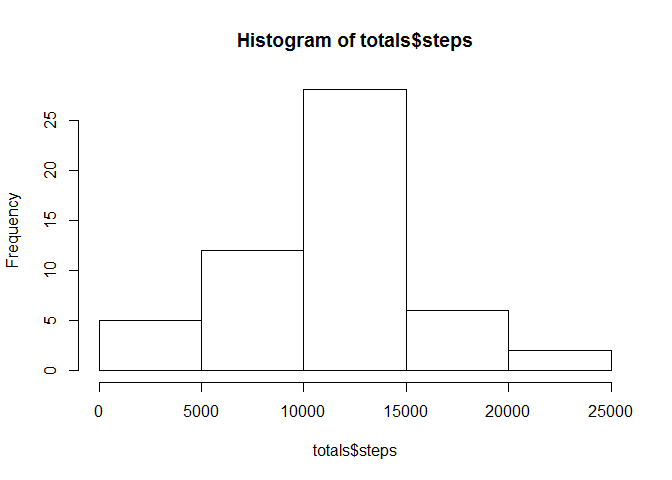
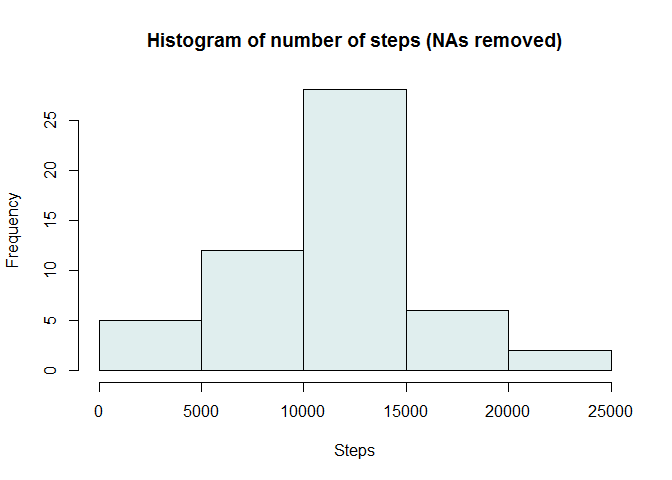
Final release

Changed region(s): [[0.125, 0.1875, 0.9062, 0.7812], [0.2188, 0.0625, 0.8438, 0.125], [0.4688, 0.9062, 0.5938, 0.9688]]

diff --git a/PA1_template.html b/PA1_template.html
@@ -54,71 +54,72 @@ if (window.hljs && document.readyState && document.readyState === "complete") {
 <div id="header">
 <h1 class="title">Reproducible Research: Peer Assessment 1</h1>
 <h4 class="author"><em>Maarten Caminada</em></h4>
-<h4 class="date"><em>Tuesday, November 11, 2014</em></h4>
+<h4 class="date"><em>Thursday, November 13, 2014</em></h4>
 </div>
 
 
 <div id="changing-the-work-directory-and-loading-the-packages-needed" class="section level2">
 <h2>Changing the work directory and loading the packages needed</h2>
-<pre class="r"><code>wd &lt;- &quot;c:/maca/Rdata/RepData_PeerAssessment1&quot; #the directory where I unzipped the datafiles
+<pre class="r"><code>wd &lt;- &quot;c:/maca/Rdata/RepData_PeerAssessment1&quot; # the directory where I unzipped the datafiles
 setwd(wd) #is now my working directory
 
-Sys.setlocale(&quot;LC_TIME&quot;, &quot;C&quot;) # change timesettings to English</code></pre>
+Sys.setlocale(&quot;LC_TIME&quot;, &quot;C&quot;) # change timesettings to English, needed for the final plot</code></pre>
 <pre><code>## [1] &quot;C&quot;</code></pre>
-<pre class="r"><code>library(knitr) #load knitr, assuming the package is installed
+<pre class="r"><code>library(knitr) # load knitr, assuming the package is installed
 library(markdown) # dito for markdown, and the other packages
 library(plyr)
-library(lubridate)</code></pre>
-<pre><code>## 
-## Attaching package: 'lubridate'
-## 
-## The following object is masked from 'package:plyr':
-## 
-##     here</code></pre>
-<pre class="r"><code>library(ggplot2)
-options(scipen = 3) #no scientific notation</code></pre>
+library(ggplot2)
+options(scipen = 3) # I don't want scientific notation</code></pre>
 </div>
 <div id="loading-and-preprocessing-the-data" class="section level2">
 <h2>Loading and preprocessing the data</h2>
 <pre class="r"><code>activity &lt;- read.csv(&quot;activity.csv&quot;) 
-act_cc &lt;- activity[complete.cases(activity),] #only use the rows without missing values</code></pre>
+act_cc &lt;- activity[complete.cases(activity),] # only use the rows without missing values</code></pre>
 </div>
 <div id="what-is-mean-total-number-of-steps-taken-per-day" class="section level2">
 <h2>What is mean total number of steps taken per day?</h2>
-<pre class="r"><code>totals &lt;- ddply(act_cc, .(date), summarize, steps=sum(steps))
-hist(totals$steps)</code></pre>
[1 lines of base64/hex data omitted]
-<pre class="r"><code>meansteps &lt;- mean(totals$steps)
-mediansteps &lt;- median(totals$steps)</code></pre>
-<p>The mean number of steps is 10766.1886792. The median number of steps is 10765.</p>
+<pre class="r"><code>totals &lt;- ddply(act_cc, .(date), summarize, steps=sum(steps)) # sum the number of steps by date
+hist(totals$steps, main=&quot;Histogram of number of steps (NAs removed)&quot;, xlab=&quot;Steps&quot;, col=&quot;azure2&quot;)</code></pre>
[1 lines of base64/hex data omitted]
+<pre class="r"><code>meansteps &lt;- round(mean(totals$steps),2) # the average number of steps taken daily
+mediansteps &lt;- round(median(totals$steps),2) # and the median</code></pre>
+<p>The mean number of steps is 10766.19. The median number of steps is 10765.</p>
 </div>
 <div id="what-is-the-average-daily-activity-pattern" class="section level2">
 <h2>What is the average daily activity pattern?</h2>
-<pre class="r"><code>interval &lt;- ddply(act_cc, ~interval, summarise, mean = mean(steps)) #get the averages per interval
-plot(ddply(act_cc, ~interval, summarise, mean = mean(steps)), type = &quot;l&quot;) #time series plot of 5-minute interval</code></pre>
+<pre class="r"><code>interval &lt;- ddply(act_cc, ~interval, summarise, mean = mean(steps)) # get the averages per interval
+plot(ddply(act_cc, ~interval, summarise, mean = mean(steps)), type = &quot;l&quot;) # time series plot of 5-minute interval</code></pre>
[1 lines of base64/hex data omitted]
-<pre class="r"><code>maxsteps &lt;- interval$interval[interval$mean==max(interval$mean)] #which interval contains the max number of steps</code></pre>
-<p>The interval with the max number of steps is 835.</p>
+<pre class="r"><code>maxsteps &lt;- interval$interval[interval$mean==max(interval$mean)] # which interval contains the max number of steps
+maxstepsend &lt;- maxsteps + 5 # and what's the end of this interval</code></pre>
+<p>The interval with the max number of steps is 835 - 840.</p>
 </div>
 <div id="imputing-missing-values" class="section level2">
 <h2>Imputing missing values</h2>
 <pre class="r"><code>## I want to use the average for that 5-minute interval to replace NAs 
-NAs &lt;- nrow(activity) - nrow(act_cc) #the number of rows with NAs
+NAs &lt;- nrow(activity) - nrow(act_cc) # the number of rows with NAs
 act_all &lt;- merge(activity, interval, by =&quot;interval&quot;)
 act_all$steps[is.na(act_all$steps)] &lt;- act_all$mean[is.na(act_all$steps)]
 act_all$mean &lt;- NULL
-meanstepsall &lt;- mean(act_all$steps)
-medianstepsall &lt;- median(act_all$steps)</code></pre>
-<p>The number of rows that contain NAs is 2304. The mean number of steps for the dataset where the missing data is filled in is 37.3825996. The median number for this dataset is 0.</p>
+totalsall &lt;- ddply(act_all, .(date), summarize, steps=sum(steps))
+hist(totalsall$steps, main=&quot;Histogram of number of steps (NA's imputed)&quot;, xlab=&quot;Steps&quot;, col=&quot;gold2&quot;)</code></pre>
[1 lines of base64/hex data omitted]
+<pre class="r"><code>meanstepsall &lt;- round(mean(totalsall$steps),2)
+medianstepsall &lt;- round(median(totalsall$steps),2)
+meandiff  &lt;- meansteps - meanstepsall
+mediandiff &lt;- mediansteps - medianstepsall</code></pre>
+<p>The number of rows that contain NAs is 2304.</p>
+<p>The mean number of steps for the dataset where the missing data is filled in is 10766.19. The median number for this dataset is exactly similar to this number (10766.19).</p>
+<p>The difference between the mean of the first and second dataset is 0. The difference between the median of the first and second dataset is -1.19.</p>
 </div>
 <div id="are-there-differences-in-activity-patterns-between-weekdays-and-weekends" class="section level2">
 <h2>Are there differences in activity patterns between weekdays and weekends?</h2>
-<pre class="r"><code>act_all$date &lt;- as.Date(as.character(act_all$date), format='%Y-%m-%d')
+<pre class="r"><code>act_all$date &lt;- as.Date(as.character(act_all$date), format='%Y-%m-%d') # we need dates here
 act_all$weekday &lt;- weekdays(act_all$date)
 act_all$weekday[act_all$weekday == &quot;Saturday&quot; | act_all$weekday ==&quot;Sunday&quot;] &lt;- &quot;Weekend&quot;
 act_all$weekday[act_all$weekday != &quot;Weekend&quot;] &lt;- &quot;Weekday&quot;
 
-act_all_mean &lt;- ddply(act_all, c(&quot;interval&quot;, &quot;weekday&quot;), summarise, mean = mean(steps))
+act_all_mean &lt;- ddply(act_all, c(&quot;interval&quot;, &quot;weekday&quot;), summarise, mean = mean(steps)) # mean per interval over weekday/weekend
 
 plotweekdays &lt;- ggplot(act_all_mean , aes(x=interval, y=mean))+
         geom_line(colour=&quot;cornflowerblue&quot;, size = 0.75)+
@@ -129,9 +130,6 @@ plotweekdays &lt;- ggplot(act_all_mean , aes(x=interval, y=mean))+
         labs(x= &quot;Interval&quot;, y = &quot;Number of steps&quot;)       
 print(plotweekdays)</code></pre>
[1 lines of base64/hex data omitted]
-<pre class="r"><code>meandiff  &lt;- meansteps - meanstepsall
-mediandiff &lt;- mediansteps - medianstepsall</code></pre>
-<p>The difference between the mean of the first and second dataset is 10728.8060797. The difference between the median of the first and second dataset is 10765.</p>
 </div>
 
 

diff --git a/PA1_template.md b/PA1_template.md
@@ -1,15 +1,15 @@
 # Reproducible Research: Peer Assessment 1
 Maarten Caminada  
-Tuesday, November 11, 2014  
+Thursday, November 13, 2014  
 
 ## Changing the work directory and loading the packages needed
 
 
 ```r
-wd <- "c:/maca/Rdata/RepData_PeerAssessment1" #the directory where I unzipped the datafiles
+wd <- "c:/maca/Rdata/RepData_PeerAssessment1" # the directory where I unzipped the datafiles
 setwd(wd) #is now my working directory
 
-Sys.setlocale("LC_TIME", "C") # change timesettings to English
+Sys.setlocale("LC_TIME", "C") # change timesettings to English, needed for the final plot
 ```
 
 ```
@@ -17,24 +17,11 @@ Sys.setlocale("LC_TIME", "C") # change timesettings to English
 ```
 
 ```r
-library(knitr) #load knitr, assuming the package is installed
+library(knitr) # load knitr, assuming the package is installed
 library(markdown) # dito for markdown, and the other packages
 library(plyr)
-library(lubridate)
-```
-
-```
-## 
-## Attaching package: 'lubridate'
-## 
-## The following object is masked from 'package:plyr':
-## 
-##     here
-```
-
-```r
 library(ggplot2)
-options(scipen = 3) #no scientific notation
+options(scipen = 3) # I don't want scientific notation
 ```
 
 ## Loading and preprocessing the data
@@ -42,69 +29,83 @@ options(scipen = 3) #no scientific notation
 
 ```r
 activity <- read.csv("activity.csv") 
-act_cc <- activity[complete.cases(activity),] #only use the rows without missing values
+act_cc <- activity[complete.cases(activity),] # only use the rows without missing values
 ```
 
 ## What is mean total number of steps taken per day?
 
 
 ```r
-totals <- ddply(act_cc, .(date), summarize, steps=sum(steps))
-hist(totals$steps)
+totals <- ddply(act_cc, .(date), summarize, steps=sum(steps)) # sum the number of steps by date
+hist(totals$steps, main="Histogram of number of steps (NAs removed)", xlab="Steps", col="azure2")
 ```
 
 ![](PA1_template_files/figure-html/unnamed-chunk-3-1.png) 
 
 ```r
-meansteps <- mean(totals$steps)
-mediansteps <- median(totals$steps)
+meansteps <- round(mean(totals$steps),2) # the average number of steps taken daily
+mediansteps <- round(median(totals$steps),2) # and the median
 ```
 
-The mean number of steps is 10766.1886792. The median number of steps is 10765.
+The mean number of steps is 10766.19. The median number of steps is 10765.
 
 ## What is the average daily activity pattern?
 
 
 ```r
-interval <- ddply(act_cc, ~interval, summarise, mean = mean(steps)) #get the averages per interval
-plot(ddply(act_cc, ~interval, summarise, mean = mean(steps)), type = "l") #time series plot of 5-minute interval
+interval <- ddply(act_cc, ~interval, summarise, mean = mean(steps)) # get the averages per interval
+plot(ddply(act_cc, ~interval, summarise, mean = mean(steps)), type = "l") # time series plot of 5-minute interval
 ```
 
 ![](PA1_template_files/figure-html/unnamed-chunk-4-1.png) 
 
 ```r
-maxsteps <- interval$interval[interval$mean==max(interval$mean)] #which interval contains the max number of steps
+maxsteps <- interval$interval[interval$mean==max(interval$mean)] # which interval contains the max number of steps
+maxstepsend <- maxsteps + 5 # and what's the end of this interval
 ```
 
-The interval with the max number of steps is 835.
+The interval with the max number of steps is 835 - 840.
 
 ## Imputing missing values
 
 
 ```r
 ## I want to use the average for that 5-minute interval to replace NAs 
-NAs <- nrow(activity) - nrow(act_cc) #the number of rows with NAs
+NAs <- nrow(activity) - nrow(act_cc) # the number of rows with NAs
 act_all <- merge(activity, interval, by ="interval")
 act_all$steps[is.na(act_all$steps)] <- act_all$mean[is.na(act_all$steps)]
 act_all$mean <- NULL
-meanstepsall <- mean(act_all$steps)
-medianstepsall <- median(act_all$steps)
+totalsall <- ddply(act_all, .(date), summarize, steps=sum(steps))
+hist(totalsall$steps, main="Histogram of number of steps (NA's imputed)", xlab="Steps", col="gold2")
+```
+
+![](PA1_template_files/figure-html/unnamed-chunk-5-1.png) 
+
+```r
+meanstepsall <- round(mean(totalsall$steps),2)
+medianstepsall <- round(median(totalsall$steps),2)
+meandiff  <- meansteps - meanstepsall
+mediandiff <- mediansteps - medianstepsall
 ```
 
 The number of rows that contain NAs is 2304. 
-The mean number of steps for the dataset where the missing data is filled in is 37.3825996. 
-The median number for this dataset is 0.
+
+The mean number of steps for the dataset where the missing data is filled in is 10766.19. 
+The median number for this dataset is exactly similar to this number (10766.19).
+
+The difference between the mean of the first and second dataset is 0.
+The difference between the median of the first and second dataset is -1.19.
 
 ## Are there differences in activity patterns between weekdays and weekends?
 
 
 ```r
-act_all$date <- as.Date(as.character(act_all$date), format='%Y-%m-%d')
+act_all$date <- as.Date(as.character(act_all$date), format='%Y-%m-%d') # we need dates here
 act_all$weekday <- weekdays(act_all$date)
 act_all$weekday[act_all$weekday == "Saturday" | act_all$weekday =="Sunday"] <- "Weekend"
 act_all$weekday[act_all$weekday != "Weekend"] <- "Weekday"
 
-act_all_mean <- ddply(act_all, c("interval", "weekday"), summarise, mean = mean(steps))
+act_all_mean <- ddply(act_all, c("interval", "weekday"), summarise, mean = mean(steps)) # mean per interval over weekday/weekend
 
 plotweekdays <- ggplot(act_all_mean , aes(x=interval, y=mean))+
         geom_line(colour="cornflowerblue", size = 0.75)+
@@ -117,11 +118,3 @@ print(plotweekdays)
 ```
 
 ![](PA1_template_files/figure-html/unnamed-chunk-6-1.png) 
-
-```r
-meandiff  <- meansteps - meanstepsall
-mediandiff <- mediansteps - medianstepsall
-```
-
-The difference between the mean of the first and second dataset is 10728.8060797.
-The difference between the median of the first and second dataset is 10765.
